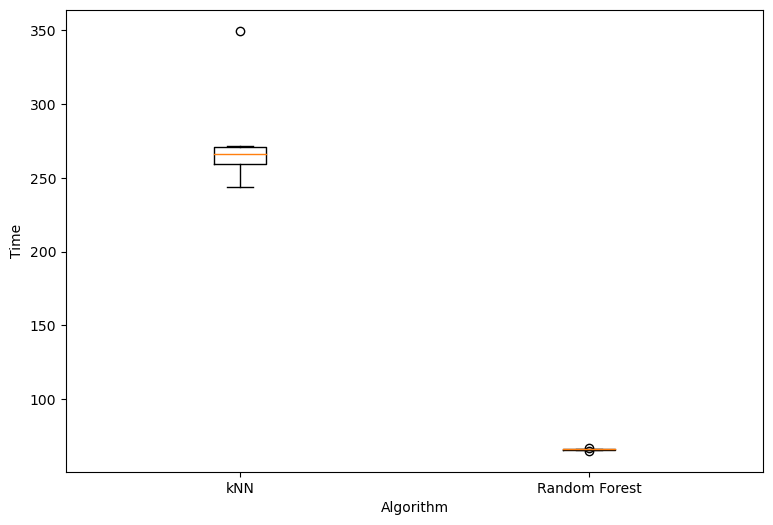
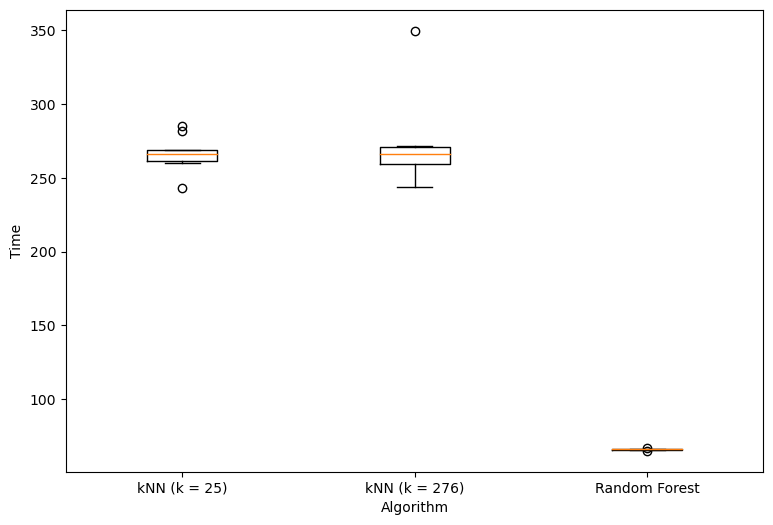
Updated images + visualizer

diff --git a/Visualizer.py b/Visualizer.py
@@ -5,14 +5,16 @@ mpl.use('agg')
 
 import matplotlib.pyplot as plt
 
-knn_time = [251.63, 266.57, 265.76, 271.30, 271.30, 263.80, 257.88, 244.08, 269.09, 349.72]
+knn25_time = [262.97, 266.44, 243.33, 260.16, 269.03, 285.03, 266.22, 281.60, 269.12, 260.55]
+knn276_time = [251.63, 266.57, 265.76, 271.30, 271.30, 263.80, 257.88, 244.08, 269.09, 349.72]
 forest_time = [64.98, 65.75, 66.42, 65.75, 66.19, 65.95, 65.81, 65.75, 66.09, 67.12]
 
-knn_accuracy = [0.847, 0.847, 0.846, 0.837, 0.849, 0.854, 0.851, 0.849, 0.836, 0.850]
+knn25_accuracy = [0.934, 0.931, 0.934, 0.930, 0.929, 0.931, 0.932, 0.930, 0.933, 0.933]
+knn276_accuracy = [0.847, 0.847, 0.846, 0.837, 0.849, 0.854, 0.851, 0.849, 0.836, 0.850]
 forest_accuracy = [0.895, 0.890, 0.890, 0.895, 0.888, 0.889, 0.892, 0.892, 0.890, 0.889]
 
-time_data_to_plot = [knn_time, forest_time]
-accuracy_data_to_plot = [knn_accuracy, forest_accuracy]
+time_data_to_plot = [knn25_time, knn276_time, forest_time]
+accuracy_data_to_plot = [knn25_accuracy, knn276_accuracy, forest_accuracy]
 
 fig = plt.figure(1, figsize=(9, 6))
 plt.xlabel("Algorithm")
@@ -22,7 +24,7 @@ plt.ylabel("Time")
 ax = fig.add_subplot(111)
 
 bp = ax.boxplot(time_data_to_plot)
-plt.xticks([1, 2], ['kNN', 'Random Forest'])
+plt.xticks([1, 2, 3], [ 'kNN (k = 25)', 'kNN (k = 276)', 'Random Forest'])
 
 fig.savefig("time_plot.png", bbox_inches='tight')
 ax.cla()
@@ -33,5 +35,6 @@ plt.ylabel("Accuracy")
 
 
 bp = ax.boxplot(accuracy_data_to_plot)
-plt.xticks([1, 2], ['kNN', 'Random Forest'])
+plt.xticks([1, 2, 3], [ 'kNN (k = 25)', 'kNN (k = 276)', 'Random Forest'])
 fig.savefig("accuracy_plot.png", bbox_inches='tight')
+
